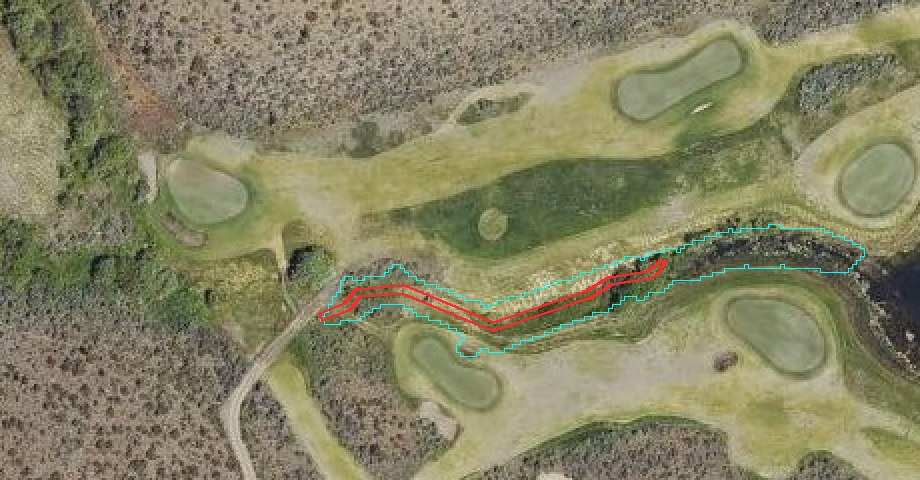
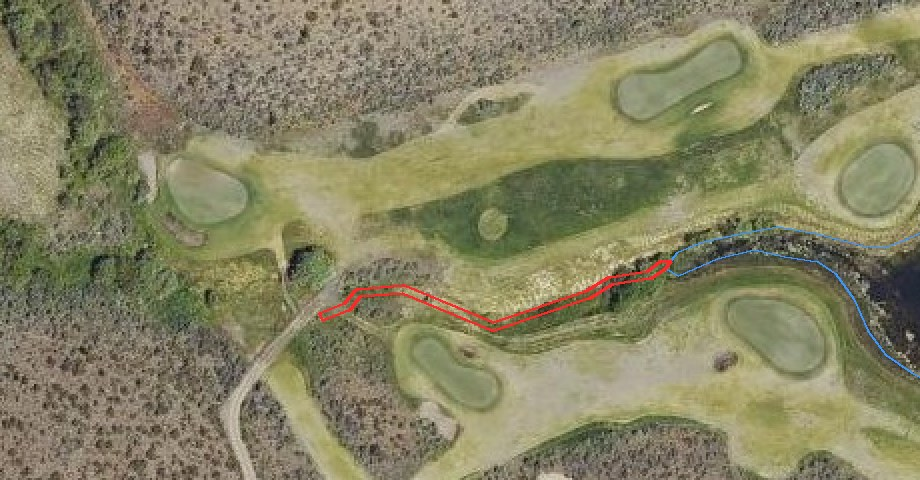
silvies: Chief Egan creek runs into the pond (developer)
Claude-Session: https://claude.ai/code/session_01VpteeNQTC6xDhe94uXxBo8

diff --git a/data/silvies/make_egan_creek.py b/data/silvies/make_egan_creek.py
@@ -9,11 +9,11 @@ Its line comes from the bare-earth DEM, as at Langdon Farms (data/langdon/make_c
 in a box round the strip (local x BOX), cells more than DEPTH below the 25 m running median
 are channel; the longest piece running east-west is the creek, its line the piece's main
 axis (pipeline/fairway_axis.py), simplified. The penalty area is that line widened to
-WIDTH_M in all (quite small, as asked), red, `flatten=no` so s04 keeps its bed, clipped
-off greens, tees and the pond (the pond is already a penalty area).
+WIDTH_M in all (quite small, as asked), red, `flatten=no` so s04 keeps its bed, carried on
+from the channel's end to the pond's edge so it runs into the pond (developer), and
+clipped off greens and tees.
 
-Writes proposed/egan_creek.geojson (WGS84) and proposed/egan_creek.jpg (photo crop: the
-channel in cyan, the proposed penalty area in red).
+Writes proposed/egan_creek.geojson (WGS84) and proposed/egan_creek.jpg (photo crop: the proposed penalty area in red, the OSM pond in blue).
 
     python3 data/silvies/make_egan_creek.py      (after s00-s02)
 """
@@ -65,9 +65,23 @@ def main():
     a, p, dep = max(pieces, key=lambda t: t[0])
     ax = centreline(p, res=0.5)
     line = LineString(ax).simplify(1.0)
+    # the creek runs into the pond (developer 2026-10-25: "make sure the red connects to the
+    # lake"): carry the line on from its end nearer the pond to the pond's edge, plus 1 m in
+    g0 = gpd.read_file(HERE / "build" / "course_local.geojson")
+    pond = min((r.geometry for _, r in g0[g0.kind == "lateral_water_hazard"].iterrows()), key=lambda q: q.distance(line))
+    from shapely.geometry import Point
+    from shapely.ops import nearest_points
+    c = list(line.coords)
+    if Point(c[0]).distance(pond) < Point(c[-1]).distance(pond):
+        c = c[::-1]
+    q = nearest_points(Point(c[-1]), pond.boundary)[1]
+    v = np.array([q.x - c[-1][0], q.y - c[-1][1]])
+    v = v / (np.linalg.norm(v) or 1)
+    line = LineString(c + [(q.x + v[0], q.y + v[1])])
+    print(f"  carried {Point(c[-1]).distance(q):.0f} m on to the pond")
     print(f"  channel {a} m2, bounds {[round(v) for v in p.bounds]}, median depth {dep:.2f} m; line {line.length:.0f} m")
     g = gpd.read_file(HERE / "build" / "course_local.geojson")
-    keep_off = unary_union(list(g[g.kind.isin(["green", "tee", "lateral_water_hazard", "water_hazard"])].geometry.buffer(1.0)))
+    keep_off = unary_union(list(g[g.kind.isin(["green", "tee"])].geometry.buffer(1.0)))
     area = line.buffer(WIDTH_M / 2, cap_style=2).difference(keep_off)
     if area.geom_type == "MultiPolygon":
         area = unary_union([q for q in area.geoms if q.area > 10])
@@ -78,14 +92,16 @@ def main():
                            geometry=[area], crs=None)
     out = out.set_geometry(out.geometry.translate(x0w, y0w)).set_crs(cfg["epsg"]).to_crs(4326)
     out.to_file(HERE / "proposed" / "egan_creek.geojson", driver="GeoJSON")
+    area = area.difference(pond)  # the pond is its own penalty area already: the creek runs up to it
+    if area.geom_type == "MultiPolygon":   # keep the strip that reaches the pond, drop slivers left by the pond's ragged edge
+        area = unary_union([q for q in area.geoms if q.area > 25])
     # picture
     with rasterio.open(HERE / cfg["ortho"]["path"]) as s:
         w = from_bounds(x0w + xa, y0w + ya, x0w + xb, y0w + yb, s.transform)
         im = Image.fromarray(np.moveaxis(s.read(window=w, out_shape=(3, (yb - ya) * 4, (xb - xa) * 4)), 0, 2))
     d = ImageDraw.Draw(im)
     P = lambda x, y: ((x - xa) * 4, (yb - y) * 4)  # noqa: E731
-    for q in getattr(p, "geoms", [p]):
-        d.line([P(*c) for c in q.exterior.coords], fill=(0, 255, 255), width=1)
+    d.line([P(*c) for c in pond.exterior.coords], fill=(60, 150, 255), width=2)
     for q in getattr(area, "geoms", [area]):
         d.line([P(*c) for c in q.exterior.coords], fill=(255, 40, 40), width=3)
     im.save(HERE / "proposed" / "egan_creek.jpg", quality=88)
